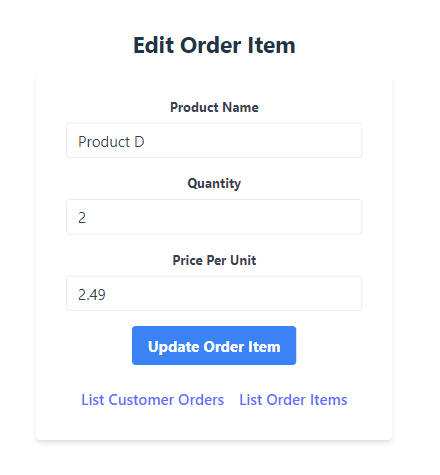
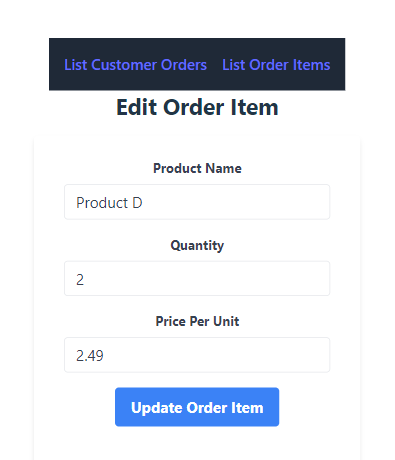
edit-order-item-changed

diff --git a/client/src/orderitemspage/editorderitem.jsx b/client/src/orderitemspage/editorderitem.jsx
@@ -54,6 +54,22 @@ const EditOrderItem = () => {
 
   return (
     <div className="w-full max-w-lg mx-auto mt-8">
+    <div className="container mx-auto flex justify-between items-center px-4">
+      <header className="bg-gray-800 text-white py-4">
+        <div className="container mx-auto flex justify-center items-center px-4">
+          <nav>
+            <ul className="flex space-x-4">
+              <li>
+                <Link to="/customerOrders" className="hover:text-gray-300">List Customer Orders</Link>
+              </li>
+              <li>
+                <Link to="/orderitems" className="hover:text-gray-300">List Order Items</Link>
+              </li>
+            </ul>
+          </nav>
+        </div>
+      </header>
+    </div>
     <h2 className="text-2xl font-bold mb-4">Edit Order Item</h2>
     <form className="bg-white shadow-md rounded px-8 pt-6 pb-8 mb-4">
         <div className="mb-4">
@@ -77,18 +93,6 @@ const EditOrderItem = () => {
         <div className="mb-6">
         <button className="bg-blue-500 hover:bg-blue-700 text-white font-bold py-2 px-4 rounded focus:outline-none focus:shadow-outline" onClick={handleUpdate}>Update Order Item</button>
         </div>
-          <div className="container mx-auto flex justify-between items-center px-4">
-            <nav>
-              <ul className="flex space-x-4">
-                <li>
-                  <Link to="/customerOrders" className="hover:text-gray-300">List Customer Orders</Link>
-                </li>
-                <li>
-                  <Link to="/orderitems" className="hover:text-gray-300">List Order Items</Link>
-                </li>
-              </ul>
-            </nav>
-          </div>
     </form>
     </div>
   );
